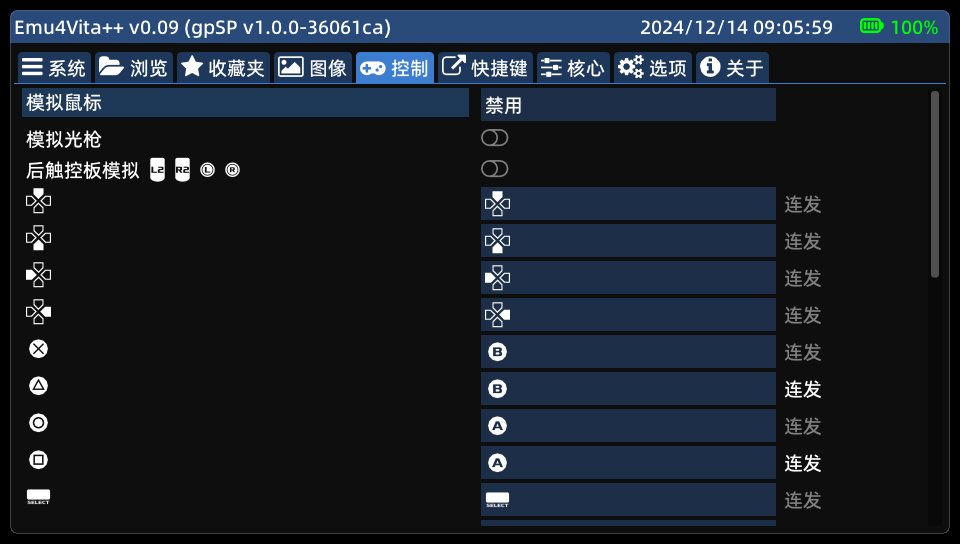
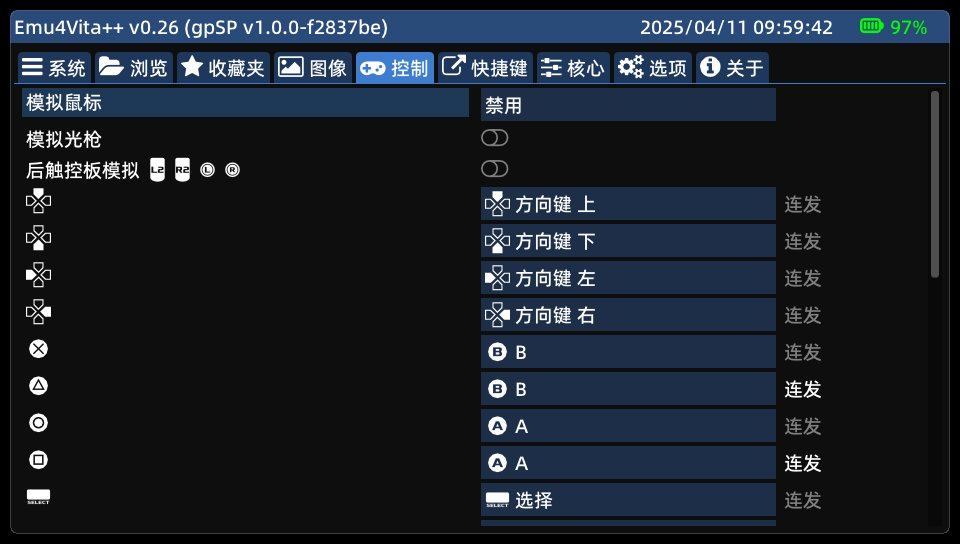
update screenshots

diff --git a/arch/source/app.cpp b/arch/source/app.cpp
@@ -153,26 +153,26 @@ App::App()
     _input.SetTurboInterval(DEFAULT_TURBO_START_TIME * 5);
     SetInputHooks(&_input);
 
+    sceKernelCreateLwMutex(&_video_mutex, "video_mutex", 0, 0, NULL);
+    _SetVisableButtons();
+    _UpdateIntro();
+
     bool found = false;
-    for (size_t i = 0; i < _buttons.size() && !found; i++)
+    for (size_t i = 0; i < _visable_buttons.size() && !found; i++)
     {
-        CoreButton *button = _buttons[i];
-        for (size_t j = 0; j < button->_cores.size(); j++)
+        CoreButton *button = _visable_buttons[i];
+        for (size_t j = 0; j < _visable_buttons->_cores.size(); j++)
         {
             if (gConfig->last_core == button->_cores[j].boot_name)
             {
-                _index_x = i % (_buttons.size() / ROW_COUNT);
-                _index_y = i / (_buttons.size() / ROW_COUNT);
+                _index_x = i % (_visable_buttons.size() / ROW_COUNT);
+                _index_y = i / (_visable_buttons.size() / ROW_COUNT);
                 button->_index = j;
                 found = true;
                 break;
             }
         }
     }
-
-    sceKernelCreateLwMutex(&_video_mutex, "video_mutex", 0, 0, NULL);
-    _SetVisableButtons();
-    _UpdateIntro();
 }
 
 App::~App()

diff --git a/README.en.md b/README.en.md
@@ -8,6 +8,7 @@ The version with log will output more logs in `ux0:data/EMU4VITAPLUS/[core]/Emu4
 
 # Screenshots
 ![](screenshots/arch.jpg)
+![](screenshots/arch_0.jpg)
 ![](screenshots/browser.jpg)
 ![](screenshots/control.jpg)
 ![](screenshots/hotkey.jpg)

diff --git a/GRAPHICS.md b/GRAPHICS.md
@@ -1,7 +1,8 @@
-# 遮罩
+# 遮罩(overlays)
 ![](screenshots/overlay.jpg)
-
-# 着色器
+![](screenshots/sony-pvm-office.jpg)
+![](screenshots/tv-integer.jpg)
+# 着色器(shaders)
 ## lcd3x
 ![](screenshots/lcd3x.jpg)
 

diff --git a/README.md b/README.md
@@ -17,6 +17,7 @@ QQ群：550802386
 
 # 截屏
 ![](screenshots/arch.jpg)
+![](screenshots/arch_0.jpg)
 ![](screenshots/browser.jpg)
 ![](screenshots/control.jpg)
 ![](screenshots/hotkey.jpg)
